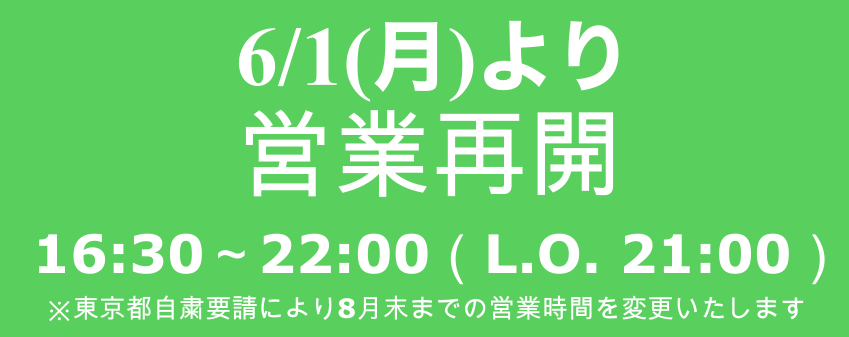
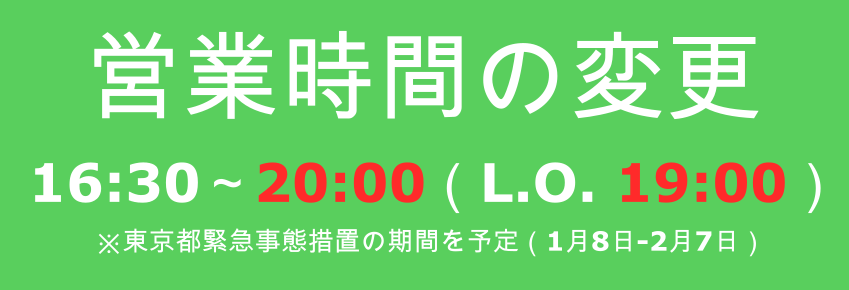
f

Changed region(s): [[0.0306, 0.0621, 0.98, 0.9621]]

diff --git a/index.html b/index.html
@@ -119,8 +119,8 @@
 
 				  	<h3><p></br>お客様へ</p>
 								いつもご愛好いただき誠にありがとうございます。</br>
-								新型コロナウイルスの感染拡大防止のためお客様の健康と安全確保を最優先に考え、臨時休業およびテイクアウトのみの営業としておりましたが、6月1日より営業を再開いたします。</br>
-								ご来店をスタッフ一同、心待ちにしております。</br>
+								緊急事態宣言発令に伴い、当面の間営業時間を変更いたします。</br>
+								お客様にはご迷惑をおかけいたしますが、何卒ご理解賜りますようお願い申し上げます。</br>
 								</br>
 				  	</h3>
         		</div>
